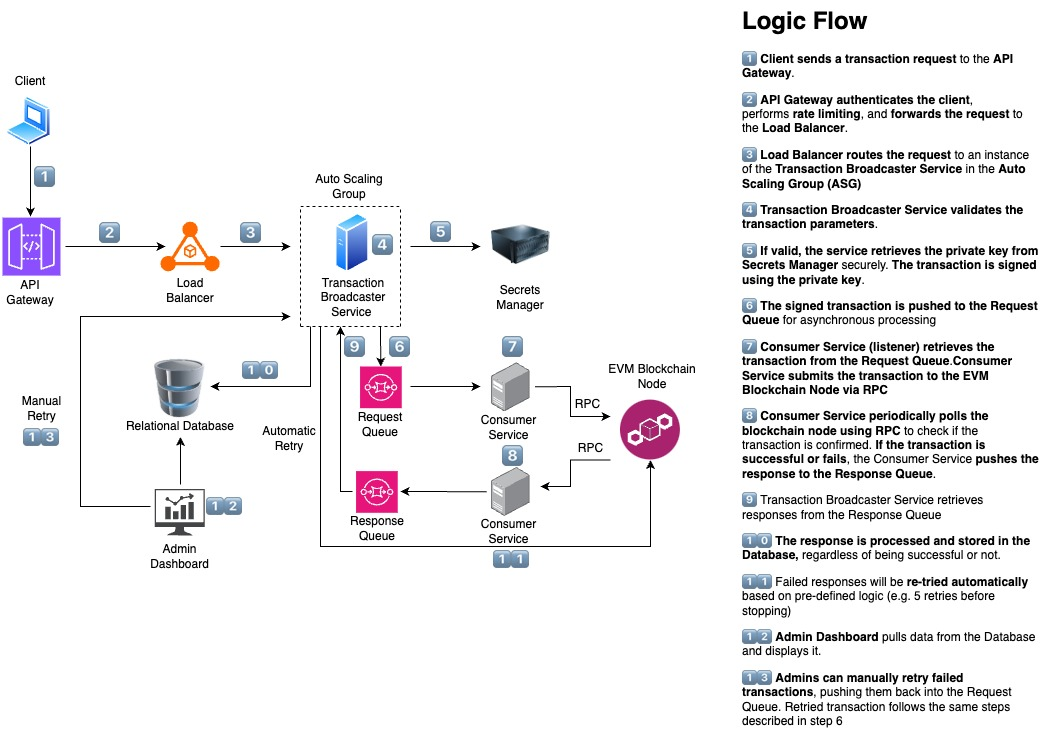
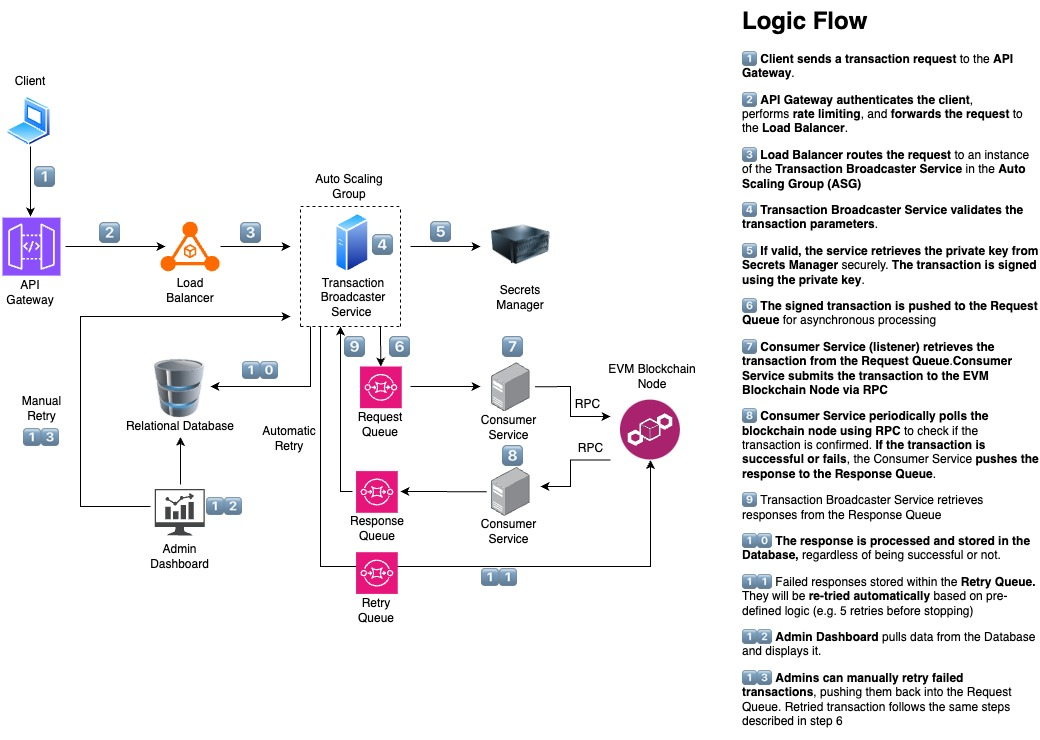
added .md file

Changed region(s): [[0.7077, 0.777, 1.0, 0.8392], [0.3385, 0.7459, 0.4, 0.8392], [0.4615, 0.7459, 0.5231, 0.8081]]

diff --git a/problem-6/problem6.md b/problem-6/problem6.md
@@ -1,0 +1,34 @@
+# Transaction Broadcaster Service Design
+
+## **Overview**
+
+The transaction broadcaster service is responsible for signing and broadcasting transactions to an EVM-compatible blockchain network. It ensures robustness through automatic retries, transaction persistence, and admin controls. This document details the software architecture and workflow for implementing this service.
+
+## **System Architecture**
+
+![System Design Diagram](problem6.jpg)
+
+## **Components**
+
+- **API Gateway**: Handles incoming requests and routes them to the broadcaster service. It ensures secure authentication and authorization before routing to the service.
+- **Load Balancer**: Directs requests to the least busy broadcaster instance, improving performance and lowering latency.
+- **Transaction Broadcaster Service**: Signs transactions, manages broadcasting logic, and retries failed transactions. It is set up with auto-scaling to scale up or down accordingly.
+- **Message Queues**:
+  - **Request Queue**: Handles asynchronous transaction broadcasting requests.
+  - **Response Queue**: Handles responses from the blockchain network.
+  - **Retry Queue**: Stores failed transactions for later retries.
+- **EVM-compatible Blockchain Node**: Receives signed transactions via RPC calls.
+- **Database**: Stores transaction logs, status, and retry information.
+- **Admin Dashboard**: Allows manual intervention and transaction monitoring.
+
+## **High-Level Flow**
+
+1. The API Gateway receives a `POST /transaction/broadcast` request.
+2. The Load Balancer directs the request to an available broadcaster instance.
+3. The Broadcaster Service extracts data from the request and signs it.
+4. The signed transaction is added to the Request Queue.
+5. The Consumer Service retrieves the transaction from the Request Queue and submits it to the Blockchain Node via RPC.
+6. The Response Queue receives the transaction response asynchronously.
+7. If successful, the service updates the Database and marks the transaction as `Success`.
+8. If the transaction fails, it is logged as `Failed` and retried using the Request Queue again. After a certain number of failed retries, it will be moved to the Retry Queue (Dead Letter Queue).
+9. The Admin Dashboard allows monitoring and manual retries of failed transactions.
